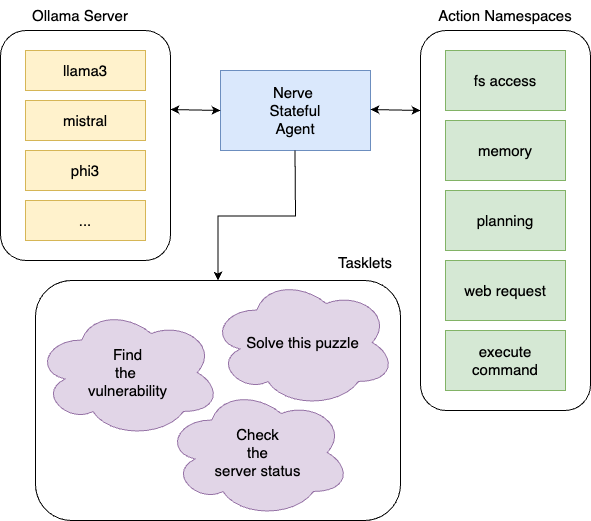
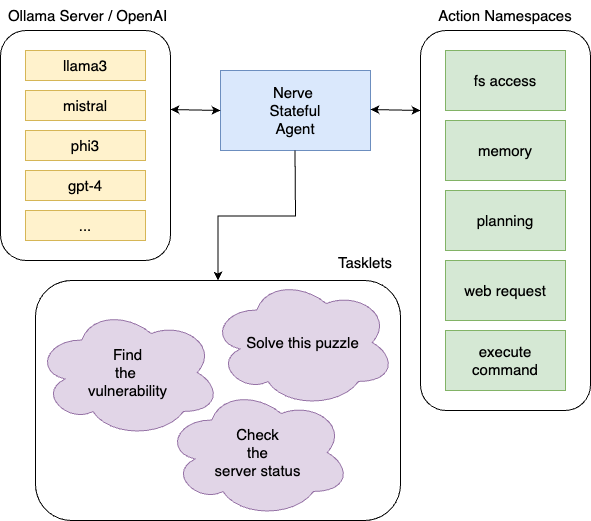
new: openai integration

Changed region(s): [[0.0305, 0.1228, 0.2741, 0.4299], [0.0, 0.0, 0.2741, 0.0614]]

diff --git a/src/cli.rs b/src/cli.rs
@@ -8,7 +8,9 @@ use regex::Regex;
 use crate::agent::AgentOptions;
 
 lazy_static! {
-    pub static ref GENERATOR_PARSER: Regex = Regex::new(r"(?m)^(.+)://(.+)@(.+):(\d+)$").unwrap();
+    pub static ref PUBLIC_GENERATOR_PARSER: Regex = Regex::new(r"(?m)^(.+)://(.+)$").unwrap();
+    pub static ref LOCAL_GENERATOR_PARSER: Regex =
+        Regex::new(r"(?m)^(.+)://(.+)@(.+):(\d+)$").unwrap();
 }
 
 #[derive(Default)]
@@ -69,30 +71,57 @@ impl Args {
         }
 
         let mut generator = Generator::default();
-        let caps = if let Some(caps) = GENERATOR_PARSER.captures_iter(raw).next() {
-            caps
-        } else {
-            return Err(anyhow!("can't parse {raw} generator string"));
-        };
-
-        if caps.len() != 5 {
-            return Err(anyhow!("can't parse {raw} generator string"));
-        }
-
-        caps.get(1)
-            .unwrap()
-            .as_str()
-            .clone_into(&mut generator.type_name);
-        caps.get(2)
-            .unwrap()
-            .as_str()
-            .clone_into(&mut generator.model_name);
-        caps.get(3)
-            .unwrap()
-            .as_str()
-            .clone_into(&mut generator.host);
-        generator.port = caps.get(4).unwrap().as_str().parse::<u16>().unwrap();
         generator.context_window = self.context_window;
+
+        if raw.contains('@') {
+            let caps = if let Some(caps) = LOCAL_GENERATOR_PARSER.captures_iter(raw).next() {
+                caps
+            } else {
+                return Err(anyhow!("can't parse {raw} generator string"));
+            };
+
+            if caps.len() != 5 {
+                return Err(anyhow!("can't parse {raw} generator string"));
+            }
+
+            caps.get(1)
+                .unwrap()
+                .as_str()
+                .clone_into(&mut generator.type_name);
+            caps.get(2)
+                .unwrap()
+                .as_str()
+                .clone_into(&mut generator.model_name);
+            caps.get(3)
+                .unwrap()
+                .as_str()
+                .clone_into(&mut generator.host);
+            generator.port = caps.get(4).unwrap().as_str().parse::<u16>().unwrap();
+        } else {
+            let caps = if let Some(caps) = PUBLIC_GENERATOR_PARSER.captures_iter(raw).next() {
+                caps
+            } else {
+                return Err(anyhow!(
+                    "can't parse {raw} generator string, invalid expression"
+                ));
+            };
+
+            if caps.len() != 3 {
+                return Err(anyhow!(
+                    "can't parse {raw} generator string, expected 3 captures, got {}",
+                    caps.len()
+                ));
+            }
+
+            caps.get(1)
+                .unwrap()
+                .as_str()
+                .clone_into(&mut generator.type_name);
+            caps.get(2)
+                .unwrap()
+                .as_str()
+                .clone_into(&mut generator.model_name);
+        }
 
         Ok(generator)
     }

diff --git a/src/agent/model/openai.rs b/src/agent/model/openai.rs
@@ -1,0 +1,80 @@
+use openai_api_rust::chat::*;
+use openai_api_rust::completions::*;
+use openai_api_rust::*;
+
+use async_trait::async_trait;
+
+use super::{Client, Message, Options};
+
+pub struct OpenAIClient {
+    model: String,
+    client: OpenAI,
+}
+
+#[async_trait]
+impl Client for OpenAIClient {
+    fn new(url: &str, port: u16, model_name: &str, context_window: u32) -> anyhow::Result<Self>
+    where
+        Self: Sized,
+    {
+        // Load API key from environment OPENAI_API_KEY.
+        // You can also hadcode through `Auth::new(<your_api_key>)`, but it is not recommended.
+        let auth = Auth::from_env().map_err(|e| anyhow!(e))?;
+        let client = OpenAI::new(auth, "https://api.openai.com/v1/");
+        let model = model_name.to_string();
+
+        Ok(Self { model, client })
+    }
+
+    async fn chat(&self, options: &Options) -> anyhow::Result<String> {
+        let mut chat_history = vec![
+            openai_api_rust::Message {
+                role: Role::System,
+                content: options.system_prompt.trim().to_string(),
+            },
+            openai_api_rust::Message {
+                role: Role::User,
+                content: options.prompt.trim().to_string(),
+            },
+        ];
+
+        for m in &options.history {
+            chat_history.push(match m {
+                Message::Agent(data) => openai_api_rust::Message {
+                    role: Role::Assistant,
+                    content: data.trim().to_string(),
+                },
+                Message::Feedback(data) => openai_api_rust::Message {
+                    role: Role::User,
+                    content: data.trim().to_string(),
+                },
+            });
+        }
+
+        let body = ChatBody {
+            model: self.model.to_string(),
+            max_tokens: None,
+            temperature: None,
+            top_p: None,
+            n: None,
+            stream: Some(false),
+            stop: None,
+            presence_penalty: None,
+            frequency_penalty: None,
+            logit_bias: None,
+            user: None,
+            messages: chat_history,
+        };
+        let rs = self
+            .client
+            .chat_completion_create(&body)
+            .map_err(|e| anyhow!(e))?;
+
+        // println!("{:?}", &rs);
+
+        let choice = rs.choices;
+        let message = &choice[0].message.as_ref().unwrap();
+
+        Ok(message.content.to_string())
+    }
+}

diff --git a/src/agent/model/mod.rs b/src/agent/model/mod.rs
@@ -1,7 +1,8 @@
 use anyhow::Result;
 use async_trait::async_trait;
 
-pub mod ollama;
+mod ollama;
+mod openai;
 
 #[derive(Clone, Debug)]
 pub struct Options {
@@ -42,10 +43,19 @@ pub fn factory(
     model_name: &str,
     context_window: u32,
 ) -> Result<Box<dyn Client>> {
-    let gen = match name {
-        "ollama" => ollama::OllamaClient::new(url, port, model_name, context_window)?,
-        _ => return Err(anyhow!("generator '{name} not supported yet")),
-    };
-
-    Ok(Box::new(gen))
+    match name {
+        "ollama" => Ok(Box::new(ollama::OllamaClient::new(
+            url,
+            port,
+            model_name,
+            context_window,
+        )?)),
+        "openai" => Ok(Box::new(openai::OpenAIClient::new(
+            url,
+            port,
+            model_name,
+            context_window,
+        )?)),
+        _ => Err(anyhow!("generator '{name} not supported yet")),
+    }
 }

diff --git a/src/main.rs b/src/main.rs
@@ -44,10 +44,17 @@ async fn main() -> Result<()> {
     )?;
 
     println!(
-        "using {}@{}:{} (context_window={})",
+        "using {}{} (context_window={})",
         gen_options.model_name.bold(),
-        gen_options.host.dimmed(),
-        gen_options.port.to_string().dimmed(),
+        if gen_options.port == 0 {
+            format!("@{}", gen_options.type_name.dimmed())
+        } else {
+            format!(
+                "@{}:{}",
+                gen_options.host.dimmed(),
+                gen_options.port.to_string().dimmed()
+            )
+        },
         gen_options.context_window
     );
 

diff --git a/README.md b/README.md
@@ -71,10 +71,24 @@ functions:
 
 In this example we created an agent with the default functionalities that is also capable of executing any ssh command on a given host by using the "tool" we described to it.
 
-In order to run this tasklet, you'll need an [OLLAMA server](https://ollama.ai/) with the model of your choice, and to define the `SSH_USER_HOST_STRING` variable. Therefore you'll run (see the below section on how to build Nerve):
+In order to run this tasklet, you'll need an [OLLAMA server](https://ollama.ai/) with the model of your choice, or an OpenAI account, and to define the `SSH_USER_HOST_STRING` variable. 
+
+To use Nerve with an OpenAI account:
 
 ```sh
-nerve -T /path/to/ssh_agent -G "ollama://<model-name>@<ollama-host>:11434" -DSSH_USER_HOST_STRING=user@example-ssh-server-host
+OPENAI_API_KEY=you-api-key nerve  "openai://gpt-4" ...
+```
+
+To use it with an Ollama server:
+
+```sh
+nerve "ollama://<model-name>@<ollama-host>:11434" ...
+```
+
+Therefore you'll run for instance (see the below section on how to build Nerve):
+
+```sh
+nerve -T /path/to/ssh_agent -G "ollama://your-server-host@<ollama-host>:11434" -DSSH_USER_HOST_STRING=user@example-ssh-server-host
 ```
 
 For instance, if we wanted to use LLama3 on a server running on localhost (`ollama://llama3@localhost:11434` also happens to be the default value for the `-G` argument, in which case you can avoid to pass it alltogether):
